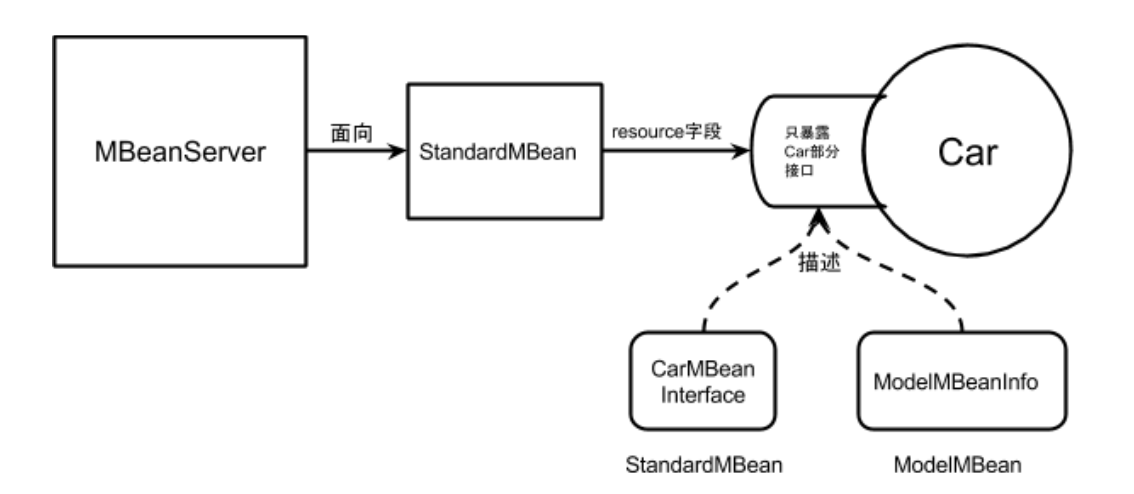
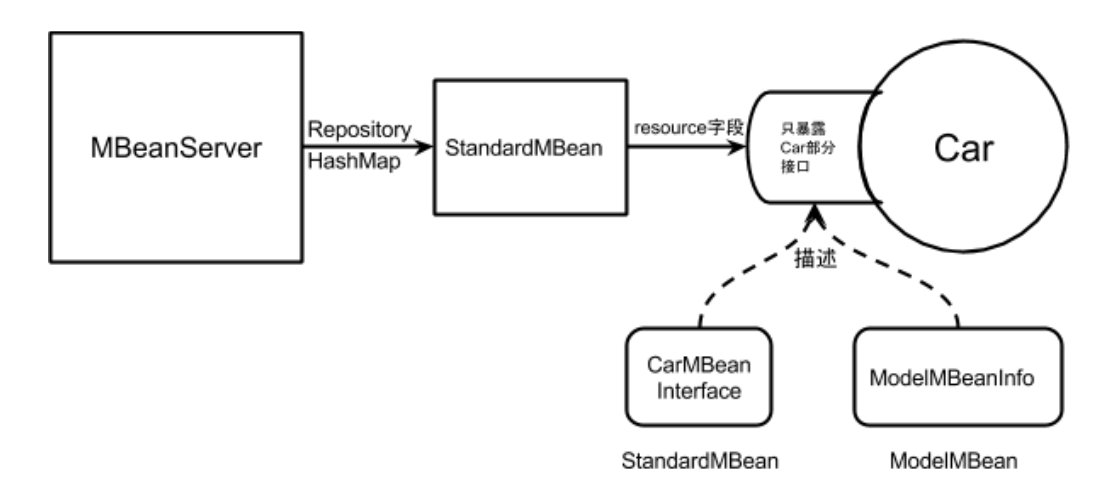
finish How Tomcat Works

diff --git a/_posts/2017-12-08-how-tomcat-works-chapter-tweenty-jmx.md b/_posts/2017-12-08-how-tomcat-works-chapter-tweenty-jmx.md
@@ -11,9 +11,18 @@ description: >
 ![jmx-1](/images/how-tomcat-works-chapter-tweenty-jmx/jmx-1.png)
 
 ### 摘要
-> Server中间层实际实现`javax.management.MBeanServer`接口的是`com.sun.jmx.mbeanserver.JmxMBeanServer`类。其中部分工作由`com.sun.jmx.interceptor.DefaultMBeanServerInterceptor`类代为完成。
+就像最开始的这幅图所示，使用JMX的管理员只能通过MBeanServer接口管理哪些被管理的资源。对于管理员来说，MBean实例是不可见的，被管理资源的引用更是不可见的。但中间的MBean中间层实例是确实存在的。MBeanServer就是透过它操作被管理资源。而MBean也不是直接面向被管理资源，它是透过被良好定义的一组被管理资源愿意暴露的接口（功能子集）来控制被管理资源的。
 
-> 然后MBean这边，对于StandardMBean我们所说的MBean实例实际是`com.sun.jmx.mbeanserver.StandardMBeanSupport`类实例。然后被管理资源实例被封装为它的一个`resource`字段。
+理解MBeanServer和MBean的关系，以及MBean和被管理资源的关系的关键在于：MBeanServer持有MBean实例引用的方式，以及MBean持有被管理资源实例的方式：
+> MBeanServer实例有一个`Repository`类作为成员字段，它本质是一个`HashMap`，专门持有有所在此MBeanServer注册过（通过`registerObject()`函数）的Mbean实例的引用。
+> MBean实例会有一个`resource`成员字段，持有被管理对象的引用。这个`resource`字段的类型签名是`Object`，实际调用的时候会被向下转型为资源暴露的接口（比如`CarMBean`之于`Car`类）。然后MBean只能透过这个有限的接口访问被管理资源。
+
+比较难理解的点在于，我们看到的只有MBeanServer接口和MBean接口。因为JMX库的代码的调用链比较长，真正工作的代码不太容易找到。这一点书里也没有介绍。所以我做了一些考证。找到了隐藏在接口背后真正工作的实际类，以后想查MBeanServer或者MBean的行为细节，可以直接差这几个类。
+> Server层实际实现`javax.management.MBeanServer`接口的是`com.sun.jmx.mbeanserver.JmxMBeanServer`类。其中部分工作由`com.sun.jmx.interceptor.DefaultMBeanServerInterceptor`类代为完成。
+
+> 然后MBean中间层这边，对于StandardMBean我们所说的MBean实例实际是`com.sun.jmx.mbeanserver.StandardMBeanSupport`类实例。然后被管理资源实例被封装为它的一个`resource`字段。
+
+> ModelMBean的实际实现类是`javax.management.modelmbean.RequiredModelMBean`。
 
 ### MBean的本质是一个“反射器”
 比如被管理的资源是`Car`类实例，它被封装在一个MBean类实例里。有一个`drive()`函数。如果`MBeanServer`像下面这样调用`invoke()`函数，就可以在运行时动态运行这个`Car`的`drive()`函数。
@@ -136,59 +145,6 @@ This class may also be used to construct MXBeans. The usage is exactly the same 
 
 根据前面介绍的`StandardMBeanSupport`类的做法，和第一种方法比较接近。
 
-### 模型MBean通过`ModelMBeanInfo`对象描述暴露接口
-ModelMBean本质上和StandardMBean一样，也只暴露被管理对象的一部分接口。只是这个接口不是像`CarMBean`这样直接写出来，而是通过`ModelMBeanInfo`对象来描述。下面代码就是构造ModelMBeanInfo对象的过程，
-```java
-private ModelMBeanInfo createModelMBeanInfo(ObjectName inMbeanObjectName, String inMbeanName) {
-    ModelMBeanInfo mBeanInfo = null;
-    ModelMBeanAttributeInfo[] attributes = new ModelMBeanAttributeInfo[1];
-    ModelMBeanOperationInfo[] operations = new ModelMBeanOperationInfo[3];
-    try {
-        attributes[0] = new ModelMBeanAttributeInfo("Color", "java,lang.String", "the color.", true, true, false, null);
-
-        operations[0] = new ModelMBeanOperationInfo("drive", "the drive method", null, "void", MBeanOperationInfo.ACTION, null);
-
-        operations[1] = new ModelMBeanOperationInfo("getColor", "get color attribute", null, "java.lang.String", MBeanOperationInfo.ACTION, null);
-
-        Descriptor setColorDesc = new DescriptorSupport(new String[] { "name=setColor", "descriptorType=operation", "class=" + MANAGED_CLASS_NAME, "role=operation"});
-
-        MBeanParameterInfo[] setColorParams = new MBeanParameterInfo[] { (new MBeanParameterInfo("new color", "java.lang.String", "new Color value") )} ;
-
-        operations[2] = new ModelMBeanOperationInfo("setColor", "set Color attribute", setColorParams, "void", MBeanOperationInfo.ACTION, setColorDesc);
-
-        mBeanInfo = new ModelMBeanInfoSupport(MANAGED_CLASS_NAME, null, attributes, null, operations, null);
-    } catch (Exception e) {
-        e.printStackTrace();
-    }
-    return mBeanInfo;
-}
-```
-
-上面这段代码描述的接口，直接写出来就是，
-```java
-public interface CarMBean {
-    public String getColor();
-    public void setColor(String color);
-    public void drive();
-}
-```
-
-但ModelMBeanInfo描述能力稍微比`CarMBean`类强一点，比如说`Car`类型有个域`color`，有个`setColor()`函数用来设置这个函数。在`ModelMBeanInfo`对象中有个`Descriptor`类型对象专门描述这个对应关系。所以要设置`color`属性，`RequiredModelMBean`就能找到`setColor()`这个函数签名，然后通过`invoke()`函数调用被管理对象的`setColor()`函数。
-
-下面代码出自`javax.management.modelmbean.RequiredModelMBean`类的`setAttribute(Attribute)`方法。 它通过从`javax.management.modelmbean.ModelMBeanInfo`类描述的暴露的接口中的设置属性的方法名称（比如：对应`color`属性的`setColor()`函数。这在构造`ModelMBeanInfo`对象的时候，通过`Descriptor`对象定义了。）查到color属性的设置方法是`setColor()`以后，就用反射调用这个方法，
-```java
-1855            /* run method from operations descriptor */
-1856            if (attrSetMethod == null) {    // 比如要设置的参数叫color，拿到的attrSetMethod=setColor
-                    // code omitted ...
-                    // code omitted...
-1876            } else {
-                    /** 直接调用invoke()函数，执行被管理对象的setColor()函数 */
-1877                setResponse = invoke(attrSetMethod,
-1878                                 (new Object[] {attrValue}),
-1879                                 (new String[] {attrType}) );
-1880            }
-```
-
 #### `RequiredModelMBean`是默认实现
 可以用`javax.management.ModelMBean`接口来表示模型MBean。在JMX中有一个`javax.management.modelmbean.RequiredModelMBean`类是`ModelMBean`接口的默认实现。
 ```java
@@ -198,6 +154,9 @@ try {
   modelMBean = new RequiredModelMBean(mBeanInfo);
 }
 ```
+
+### 模型MBean
+ModelMBean和MBeanServer协作的模式和StandardMBean一致。
 
 #### 通过`Registry`和`ManagedBean`创建`ModelMBean`
 具体见下面的示例，
@@ -305,6 +264,61 @@ public class ModelAgent {
     }
 }
 ```
+
+#### 模型MBean通过`ModelMBeanInfo`对象描述暴露接口
+ModelMBean本质上和StandardMBean一样，也只暴露被管理对象的一部分接口。只是这个接口不是像`CarMBean`这样直接写出来，而是通过`ModelMBeanInfo`对象来描述。下面代码就是构造ModelMBeanInfo对象的过程，
+```java
+private ModelMBeanInfo createModelMBeanInfo(ObjectName inMbeanObjectName, String inMbeanName) {
+    ModelMBeanInfo mBeanInfo = null;
+    ModelMBeanAttributeInfo[] attributes = new ModelMBeanAttributeInfo[1];
+    ModelMBeanOperationInfo[] operations = new ModelMBeanOperationInfo[3];
+    try {
+        attributes[0] = new ModelMBeanAttributeInfo("Color", "java,lang.String", "the color.", true, true, false, null);
+
+        operations[0] = new ModelMBeanOperationInfo("drive", "the drive method", null, "void", MBeanOperationInfo.ACTION, null);
+
+        operations[1] = new ModelMBeanOperationInfo("getColor", "get color attribute", null, "java.lang.String", MBeanOperationInfo.ACTION, null);
+
+        Descriptor setColorDesc = new DescriptorSupport(new String[] { "name=setColor", "descriptorType=operation", "class=" + MANAGED_CLASS_NAME, "role=operation"});
+
+        MBeanParameterInfo[] setColorParams = new MBeanParameterInfo[] { (new MBeanParameterInfo("new color", "java.lang.String", "new Color value") )} ;
+
+        operations[2] = new ModelMBeanOperationInfo("setColor", "set Color attribute", setColorParams, "void", MBeanOperationInfo.ACTION, setColorDesc);
+
+        mBeanInfo = new ModelMBeanInfoSupport(MANAGED_CLASS_NAME, null, attributes, null, operations, null);
+    } catch (Exception e) {
+        e.printStackTrace();
+    }
+    return mBeanInfo;
+}
+```
+
+上面这段代码描述的接口，直接写出来就是，
+```java
+public interface CarMBean {
+    public String getColor();
+    public void setColor(String color);
+    public void drive();
+}
+```
+
+但ModelMBeanInfo描述能力稍微比`CarMBean`类强一点，比如说`Car`类型有个域`color`，有个`setColor()`函数用来设置这个函数。在`ModelMBeanInfo`对象中有个`Descriptor`类型对象专门描述这个对应关系。所以要设置`color`属性，`RequiredModelMBean`就能找到`setColor()`这个函数签名，然后通过`invoke()`函数调用被管理对象的`setColor()`函数。
+
+下面代码出自`javax.management.modelmbean.RequiredModelMBean`类的`setAttribute(Attribute)`方法。 它通过从`javax.management.modelmbean.ModelMBeanInfo`类描述的暴露的接口中的设置属性的方法名称（比如：对应`color`属性的`setColor()`函数。这在构造`ModelMBeanInfo`对象的时候，通过`Descriptor`对象定义了。）查到color属性的设置方法是`setColor()`以后，就用反射调用这个方法，
+```java
+1855            /* run method from operations descriptor */
+1856            if (attrSetMethod == null) {    // 比如要设置的参数叫color，拿到的attrSetMethod=setColor
+                    // code omitted ...
+                    // code omitted...
+1876            } else {
+                    /** 直接调用invoke()函数，执行被管理对象的setColor()函数 */
+1877                setResponse = invoke(attrSetMethod,
+1878                                 (new Object[] {attrValue}),
+1879                                 (new String[] {attrType}) );
+1880            }
+```
+
+
 
 #### Commons Modeler 库
 编写`ModelMBeanInfo`类非常枯燥。为了偷懒可以先把信息写在XML文件里，然后用Commons Moddeler库解析XML文件。
